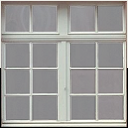
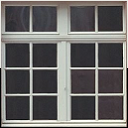
aula prática 7 ÚLTIMO FINAL

diff --git a/TP6/tp6/MyImpostor.js b/TP6/tp6/MyImpostor.js
@@ -23,7 +23,7 @@ function MyImpostor(scene)
 	this.impostorAppearance.setAmbient(0.3, 0.3, 0.3, 1.0);
 	this.impostorAppearance.setDiffuse(0.8, 0.8, 0.8, 1.0);
 	this.impostorAppearance.setSpecular(0.1, 0.1, 0.1, 1.0);
-	this.impostorAppearance.loadTexture("../resources/images/window.png");
+	this.impostorAppearance.loadTexture("../resources/images/window_new.png");
 	this.impostorAppearance.setTextureWrap("CLAMP_TO_EDGE", "CLAMP_TO_EDGE");
 };
 
